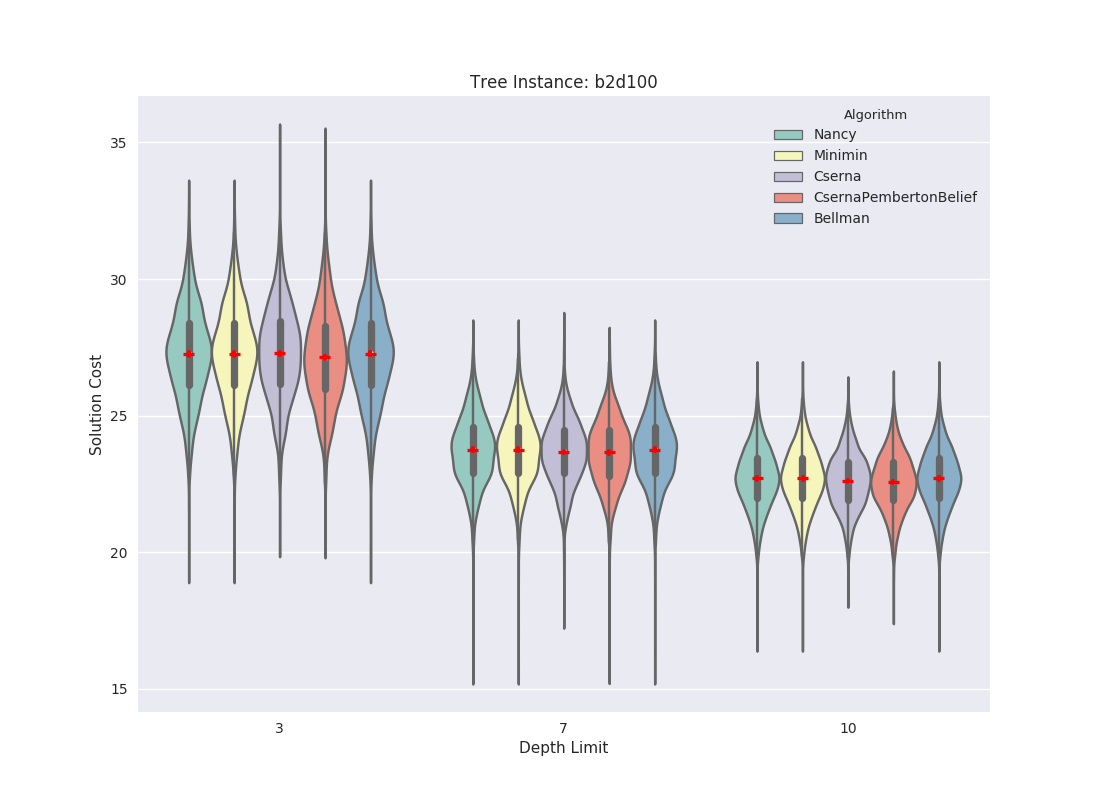
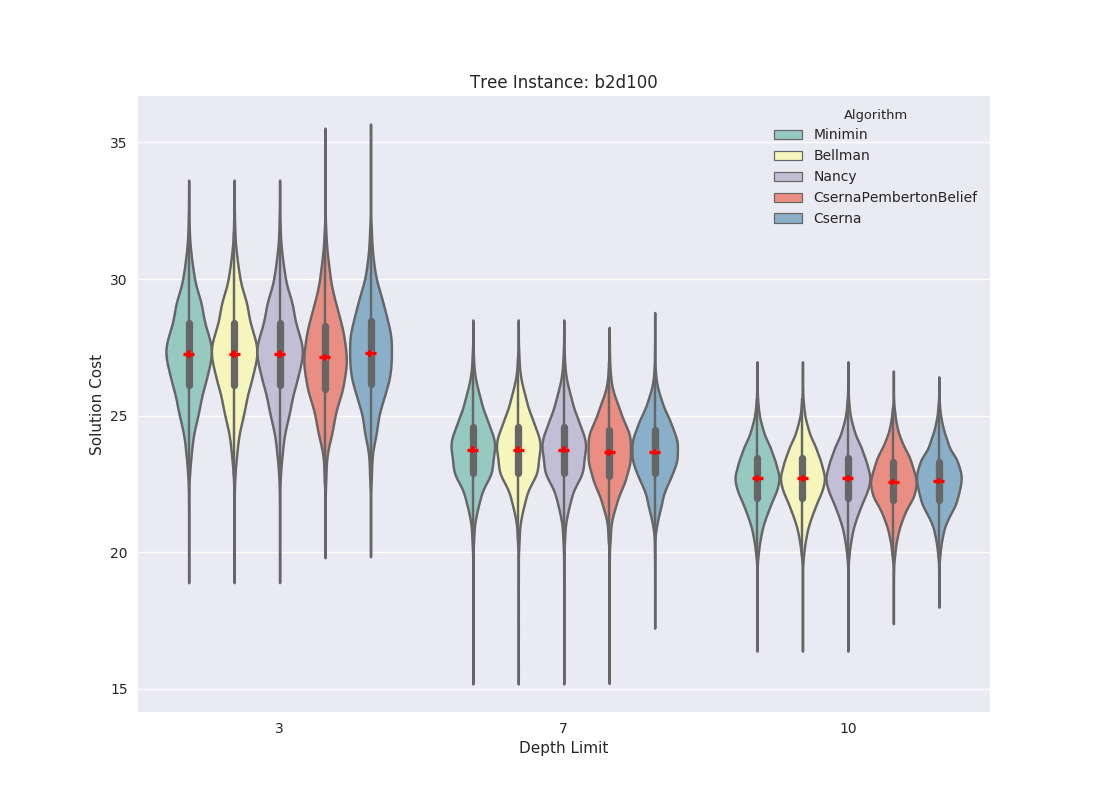
Edited backup plot ordering

diff --git a/scripts/backupTestsPlot.py b/scripts/backupTestsPlot.py
@@ -7,7 +7,8 @@ from os import listdir
 # Hard coded result directories
 resultDirs = {"b2d100"}
 
-algorithms = {"Minimin", "Bellman", "Nancy", "Cserna", "CsernaPembertonBelief"}
+algorithms = ["Minimin", "Bellman", "Nancy", "CsernaPembertonBelief", "Cserna"]
+depths= [3, 7, 10]
 
 instance = []
 lookAheadVals = []
@@ -41,12 +42,12 @@ for instance in resultDirs:
     sns.set_style("white")
     sns.set(rc={'figure.figsize': (11, 8)})
 
-    ax = sns.pointplot(x="Depth Limit", y="Solution Cost", hue="Algorithm", hue_order=algorithms, data=instanceData, join=False, dodge=0.639, palette=sns.color_palette(["red"]), markers="_", errwidth=3, ci=95)
+    ax = sns.pointplot(x="Depth Limit", y="Solution Cost", hue="Algorithm", order=depths, hue_order=algorithms, data=instanceData, join=False, dodge=0.639, palette=sns.color_palette(["red"]), markers="_", errwidth=3, ci=95)
     plt.setp(ax.lines, zorder=100)
     plt.setp(ax.collections, zorder=100, label="")
     ax.legend_.remove()
     
-    sns.violinplot(x="Depth Limit", y="Solution Cost", hue="Algorithm", hue_order=algorithms, data=instanceData, palette="Set3")    
+    sns.violinplot(x="Depth Limit", y="Solution Cost", hue="Algorithm", order=depths, hue_order=algorithms, data=instanceData, palette="Set3")    
 
     plt.title("Tree Instance: " + instance)
     plt.ylabel("Solution Cost")

diff --git a/scripts/backupDifferencePlot.py b/scripts/backupDifferencePlot.py
@@ -7,7 +7,8 @@ from os import listdir
 # Hard coded result directories
 resultDirs = {"b2d100"}
 
-algorithms = {"Minimin", "Bellman", "Nancy", "CsernaPembertonBelief"}
+algorithms = ["Minimin", "Bellman", "Nancy", "CsernaPembertonBelief"]
+depths = [3, 7, 10]
 
 instance = []
 lookAheadVals = []
@@ -40,7 +41,7 @@ for instance in resultDirs:
     
     sns.set_style("white")
     sns.set(rc={'figure.figsize': (11, 8)})
-    sns.pointplot(x="Depth Limit", y="Algorithm Cost - Cserna Cost", hue="Algorithm", hue_order=algorithms, data=instanceData, ci=95, join=False, dodge=0.3)
+    sns.pointplot(x="Depth Limit", y="Algorithm Cost - Cserna Cost", hue="Algorithm", order=depths, hue_order=algorithms, data=instanceData, ci=95, join=False, dodge=0.3, palette="Set3")
     plt.title("Tree Instance: " + instance)
 
     plt.savefig("../plots/BackupStrategyDifference" + instance + ".png")
